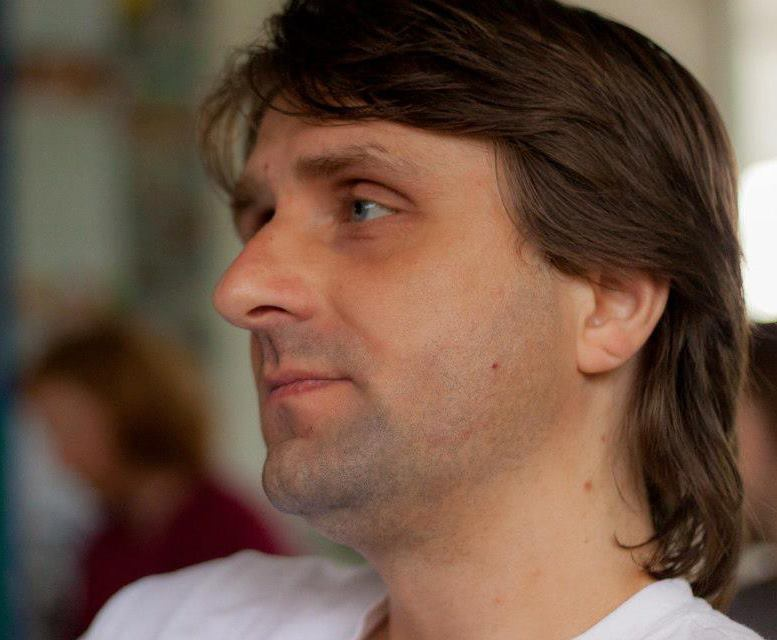
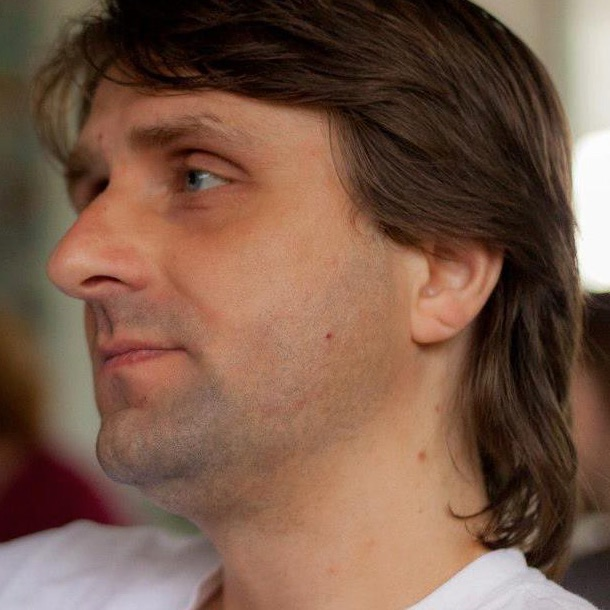
Changing images for Roman and Ladislav

diff --git a/index.html b/index.html
@@ -119,7 +119,7 @@ layout: default
     </div>
     <div class="row members">
       <div class="col-sm-offset-1 col-md-1 col-lg-1 avatar">
-        <img src="/images/laco.jpeg" alt="Ladislav Martincik" class="img-circle"/>
+        <img src="/images/laco.jpg" alt="Ladislav Martincik" class="img-circle"/>
       </div>
       <div class="col-md-2 col-lg-3">
         <h4>Ladislav Martincik</h4>
